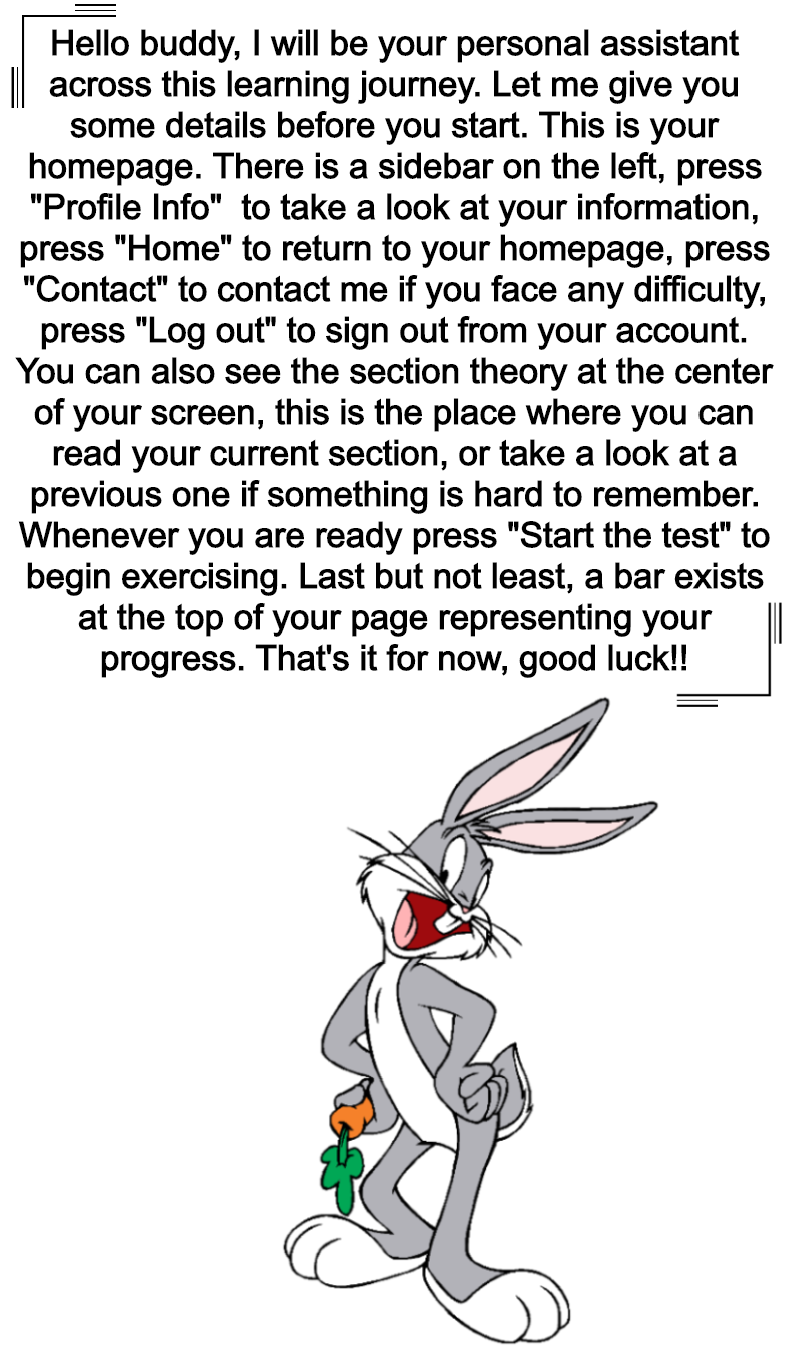
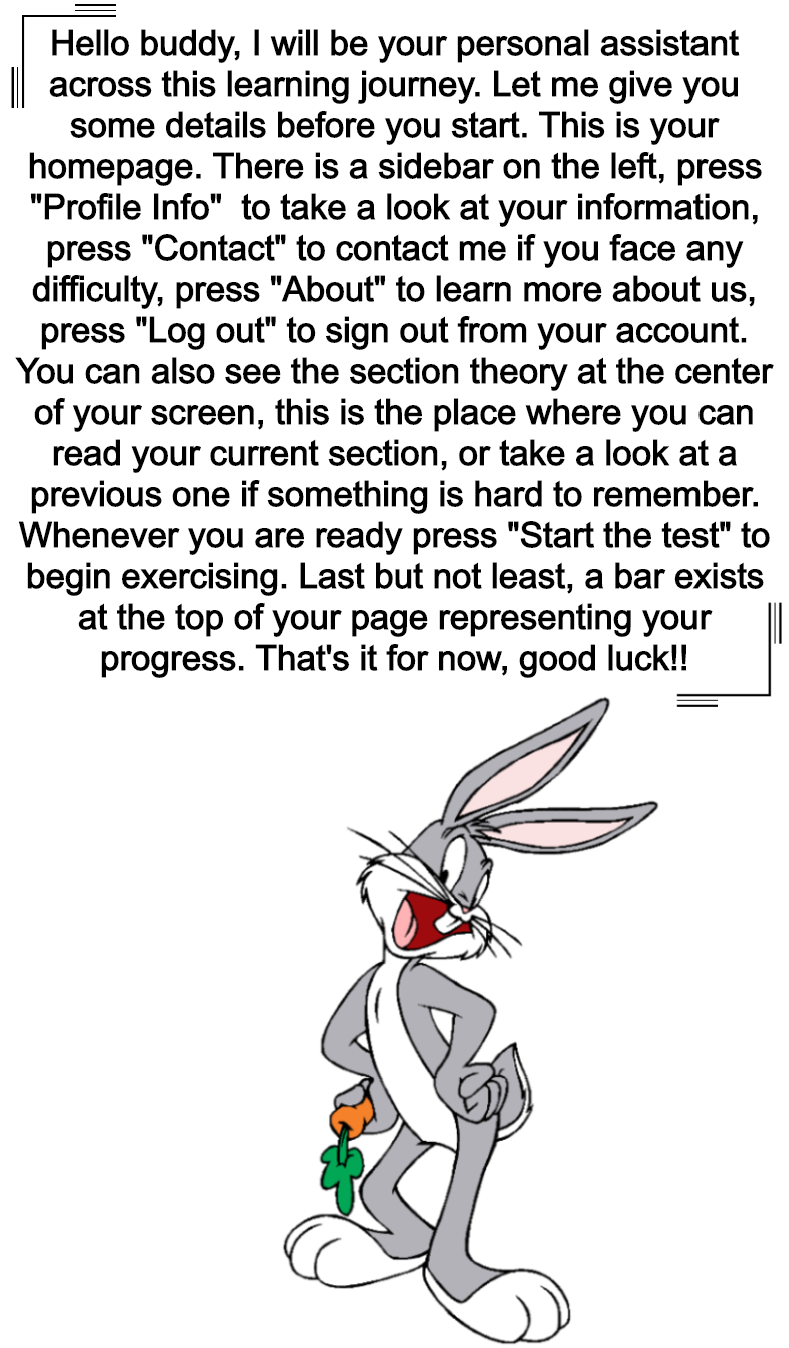
Changes on functionality of student homepage

Changed region(s): [[0.0304, 0.1558, 0.9734, 0.2493]]

diff --git a/web/register.html b/web/register.html
@@ -44,10 +44,10 @@
         <br><br>
         <div class="form-row">
             <div class="col">
-                <input name ="uname" type="text" pattern="^[a-zA-Z]+$" class="form-control" placeholder="First name" title="Enter your first name" required>
+                <input name ="uname" type="text" pattern="^[a-zA-Z]+$" class="form-control text-lowercase" placeholder="First name" title="Enter your first name" required>
             </div>
             <div class="col">
-                <input name ="surname" type="text" pattern="^[a-zA-Z]+$" class="form-control" placeholder="Last name" title="Enter your last name" required>
+                <input name ="surname" type="text" pattern="^[a-zA-Z]+$" class="form-control text-lowercase" placeholder="Last name" title="Enter your last name" required>
             </div>
         </div>
         <small class="form-text text-white mb-4">
@@ -55,11 +55,11 @@
         </small>
         <div class="form-row">
             <div class="col">
-                <input id="pass" name ="pass" type="password" pattern="^[a-zA-Z]+$" maxlength="4" class="form-control" placeholder="Password"
+                <input id="pass" name ="pass" type="password" pattern="^[a-zA-Z]+$" maxlength="4" class="form-control text-lowercase" placeholder="Password"
                        title="Must consist of 4 letters, read the text below" required>
             </div>
             <div class="col">
-                <input  id="conpass" name ="conpass" pattern="^[a-zA-Z]+$" maxlength="4"  class="form-control" placeholder="Reenter Password" type="password" required>
+                <input  id="conpass" name ="conpass" pattern="^[a-zA-Z]+$" maxlength="4"  class="form-control text-lowercase" placeholder="Reenter Password" type="password" required>
             </div>
         </div>
         <small class="form-text text-white mb-5">

diff --git a/web/login.html b/web/login.html
@@ -31,14 +31,14 @@
                     <p class="card-title h5 mb-4 text-center">Login</p>
 
                     <div class="form-group text-center">
-                        <input name="userid" type="text" title="Enter username" class="form-control text-center" id="UserId" placeholder="Username" required>
+                        <input name="userid" type="text" title="Enter username" class="form-control text-center text-lowercase" id="UserId" placeholder="Username" required>
                         <small class="form-text  mb-4 text-white">
                             Remember username is your first name
                         </small>
                     </div>
 
                     <div class="form-group text-center">
-                        <input name="pass" type="password" title="Enter password" class="form-control text-center" id="password" placeholder="Password" required>
+                        <input name="pass" type="password" title="Enter password" class="form-control text-center text-lowercase" id="password" placeholder="Password" required>
                         <small class="form-text mb-5 text-white">Forgot your password?
                             Back to <a style="color: #f3fa96" href="register.html">Register</a> to get bunny's help
                         </small>

diff --git a/web/test.html b/web/test.html
@@ -41,7 +41,7 @@
                     <a class="card-title" href="#about" data-toggle="collapse" data-target="#collapse1" aria-expanded="false" aria-controls="collapse1">Profile Info</a>
                 </div>
                 <div id="collapse1" class="collapse container text-white" style="width: fit-content; background-color: #095426" aria-labelledby="headingOne" data-parent="#accordion1">
-                    <p class="card-text"><span class="glyphicon glyphicon-user"></span> Kostas Dimitrakopoulos</p>
+                    <p class="card-text "><span class="glyphicon glyphicon-user"></span> Kostas Dimitrakopoulos</p>
                     <p class="card-text">Current Section: <p>  Multiplication of 3</p></p>
                     <p class="card-text">Progress: 40%</p>
                 </div>

diff --git a/web/about.html b/web/about.html
@@ -1,0 +1,10 @@
+<!DOCTYPE html>
+<html lang="en">
+<head>
+    <meta charset="UTF-8">
+    <title>Title</title>
+</head>
+<body>
+
+</body>
+</html>

diff --git a/web/contact.html b/web/contact.html
@@ -1,0 +1,10 @@
+<!DOCTYPE html>
+<html lang="en">
+<head>
+    <meta charset="UTF-8">
+    <title>Title</title>
+</head>
+<body>
+
+</body>
+</html>

diff --git a/src/Servlets/S_WelcomeServlet.java b/src/Servlets/S_WelcomeServlet.java
@@ -34,19 +34,17 @@ public class S_WelcomeServlet extends HttpServlet {
                 "font-size: 21px; color: #5f6e62; display: block; } .sidenav a:hover { color: #edede4; } </style> </head>\n" +
                 "<body style=\"background: #FFEEEE;  /*for old browsers */ background: -webkit-linear-gradient(to right, #DDEFBB, #FFEEEE);  /* Chrome 10-25, Safari 5.1-6 */\n" +
                 "background: linear-gradient(to right, #DDEFBB, #FFEEEE); /* W3C, IE 10+/ Edge, Firefox 16+, Chrome 26+, Opera 12+, Safari 7+ */\">\n" +
-                "<div class=\"sidenav\"><div class=\"accordion\" id=\"accordion1\"><div id=\"heading1\">\n" +
-                "<a class=\"card-title\" href=\"#about\" data-toggle=\"collapse\" data-target=\"#collapse1\" aria-expanded=\"false\" aria-controls=\"collapse1\">Profile Info</a>\n" +
-                "</div><div id=\"collapse1\" class=\"collapse container text-white\" style=\"width: fit-content; background-color: #095426\" aria-labelledby=\"headingOne\" data-parent=\"#accordion1\">\n" +
-                "<p class=\"card-text\"><span class=\"glyphicon glyphicon-user\"></span> ");
-
+                "<div class=\"sidenav\"><div class=\"accordion\" id=\"accordion_menu\"><div id=\"heading_menu\">\n" +
+                "<a class=\"card-title\" href=\"#about\" data-toggle=\"collapse\" data-target=\"#collapse_menu\" aria-expanded=\"false\" aria-controls=\"collapse_menu\">Profile Info</a>\n" +
+                "</div><div id=\"collapse_menu\" class=\"collapse container text-white\" style=\"width: fit-content; background-color: #095426\" aria-labelledby=\"heading_menu\" data-parent=\"#accordion_menu\">\n" +
+                "<p class=\"card-text text-uppercase\"><span class=\"glyphicon glyphicon-user\"></span> ");
         try{
-            /*if(request.getParameter("logout")!=null) {
-
-                request.getSession().removeAttribute("username");
+            if(request.getParameter("logout")!=null) {
+                request.getSession().removeAttribute("userid");
                 request.getSession().invalidate();
                 response.setHeader("Cache-Control", "no-cache, no-store, must-revalidate");
-                response.sendRedirect("index.html");
-            }*/
+                response.sendRedirect("login.html");
+            }
             StudentMapper s = new StudentMapper();
             ResultSet info = s.get_info(userid);
             String first_name = ""; String last_name = ""; String theory_id = ""; int progress = 0;
@@ -55,11 +53,10 @@ public class S_WelcomeServlet extends HttpServlet {
                 last_name = info.getString("last_name");
                 theory_id = info.getString("theory_id");
                 progress = (int) ((info.getDouble("progress")*100)/10);
-
             }
             out.println( first_name + " " + last_name + "</p><p class=\"card-text\">Current Section: <p>  Multiplication of " + theory_id +
-                    "</p></p><p class=\"card-text\">Progress: " + progress + "%</p></div></div><form method=\"post\" action=\"/S_Welcome\"><a href=\"/Register\">Home</a>" +
-                    "<a href=\"#contact\">Contact</a><a href=\"#logout\" onclick=\"$(this).closest('form').submit()\">Logout</a></form></div>" +
+                    "</p></p><p class=\"card-text\">Progress: " + progress + "%</p></div></div><form method=\"post\" action=\"/S_Welcome\"><a href=\"contact.html\">Contact</a>" +
+                    "<a href=\"about.html\">About</a><a href=\"\" name=\"logout\" onclick=\"$(this).closest('form').submit()\">Logout</a></form></div>" +
                     "<div class=\"progress\" style=\"margin-top: 2%; height: 32px;\"><div class=\"progress-bar progress-bar-success font-weight-bolder\" role=\"progressbar\" aria-valuenow=\""+progress+"\""+
                     "aria-valuemin=\"0\" aria-valuemax=\"100\" style=\"width:"+progress+"%; font-size: 16px\">Student's progress "+progress+"%</div></div>" +
                     "<div class=\"container\"><div class=\"row\"><div class=\"col-md-8\"><div class=\"container d-flex\" style=\"margin-left: 20%\">\n" +
@@ -77,7 +74,7 @@ public class S_WelcomeServlet extends HttpServlet {
                     "</form></div></div></div></div></div></div><div class=\"col-md-4\"><img src=\"./img/bugs.png\" alt=\"Instructions\"  width=\"400\" height=\"600\">\n" +
                     "</div></div></div><script src=\"./bootstrap/js/bootstrap.bundle.js\"></script>\n" +
                     "<script src=\"./bootstrap/js/bootstrap.js\"></script>/body></html>");
-        }
+            }
         catch(Exception e){ System.out.println(e);}
     }
     protected void PrintSections(String theory_id, String s_theory_id, String section_data, PrintWriter out) {

diff --git a/src/Servlets/RegisterServlet.java b/src/Servlets/RegisterServlet.java
@@ -22,9 +22,9 @@ public class RegisterServlet extends HttpServlet {
         request.setCharacterEncoding("UTF-8");
         response.setCharacterEncoding("UTF-8");
 
-        String uname = request.getParameter("uname");           //get form inputs after submit
-        String surname = request.getParameter("surname");
-        String pass = request.getParameter("pass");
+        String uname = request.getParameter("uname").toLowerCase();           //get form inputs after submit
+        String surname = request.getParameter("surname").toLowerCase();
+        String pass = request.getParameter("pass").toLowerCase();
         String option = request.getParameter("option_type");
         String userid = option.concat(pass);
 

diff --git a/src/Servlets/LoginServlet.java b/src/Servlets/LoginServlet.java
@@ -18,8 +18,8 @@ public class LoginServlet extends javax.servlet.http.HttpServlet {
         request.setCharacterEncoding("UTF-8");
         response.setCharacterEncoding("UTF-8");
 
-        String username = request.getParameter("userid");
-        String pass = request.getParameter("pass");
+        String username = request.getParameter("userid").toLowerCase();
+        String pass = request.getParameter("pass").toLowerCase();
         HttpSession session=request.getSession();                                   //creates a session for the user
 
         try{

diff --git a/src/Classes/StudentMapper.java b/src/Classes/StudentMapper.java
@@ -14,7 +14,7 @@ public class StudentMapper implements User{
             PreparedStatement st = con.connect().prepareStatement("INSERT INTO students (student_id, teacher_id, theory_id,password,first_name,last_name,salt,progress) VALUES(?,?,?,?,?,?,?,?);");
             st.setString(1, id);
             st.setString(2, null);
-            st.setString(3, "001");
+            st.setString(3, "1");
             st.setString(4, password);
             st.setString(5, name);
             st.setString(6, surname);
